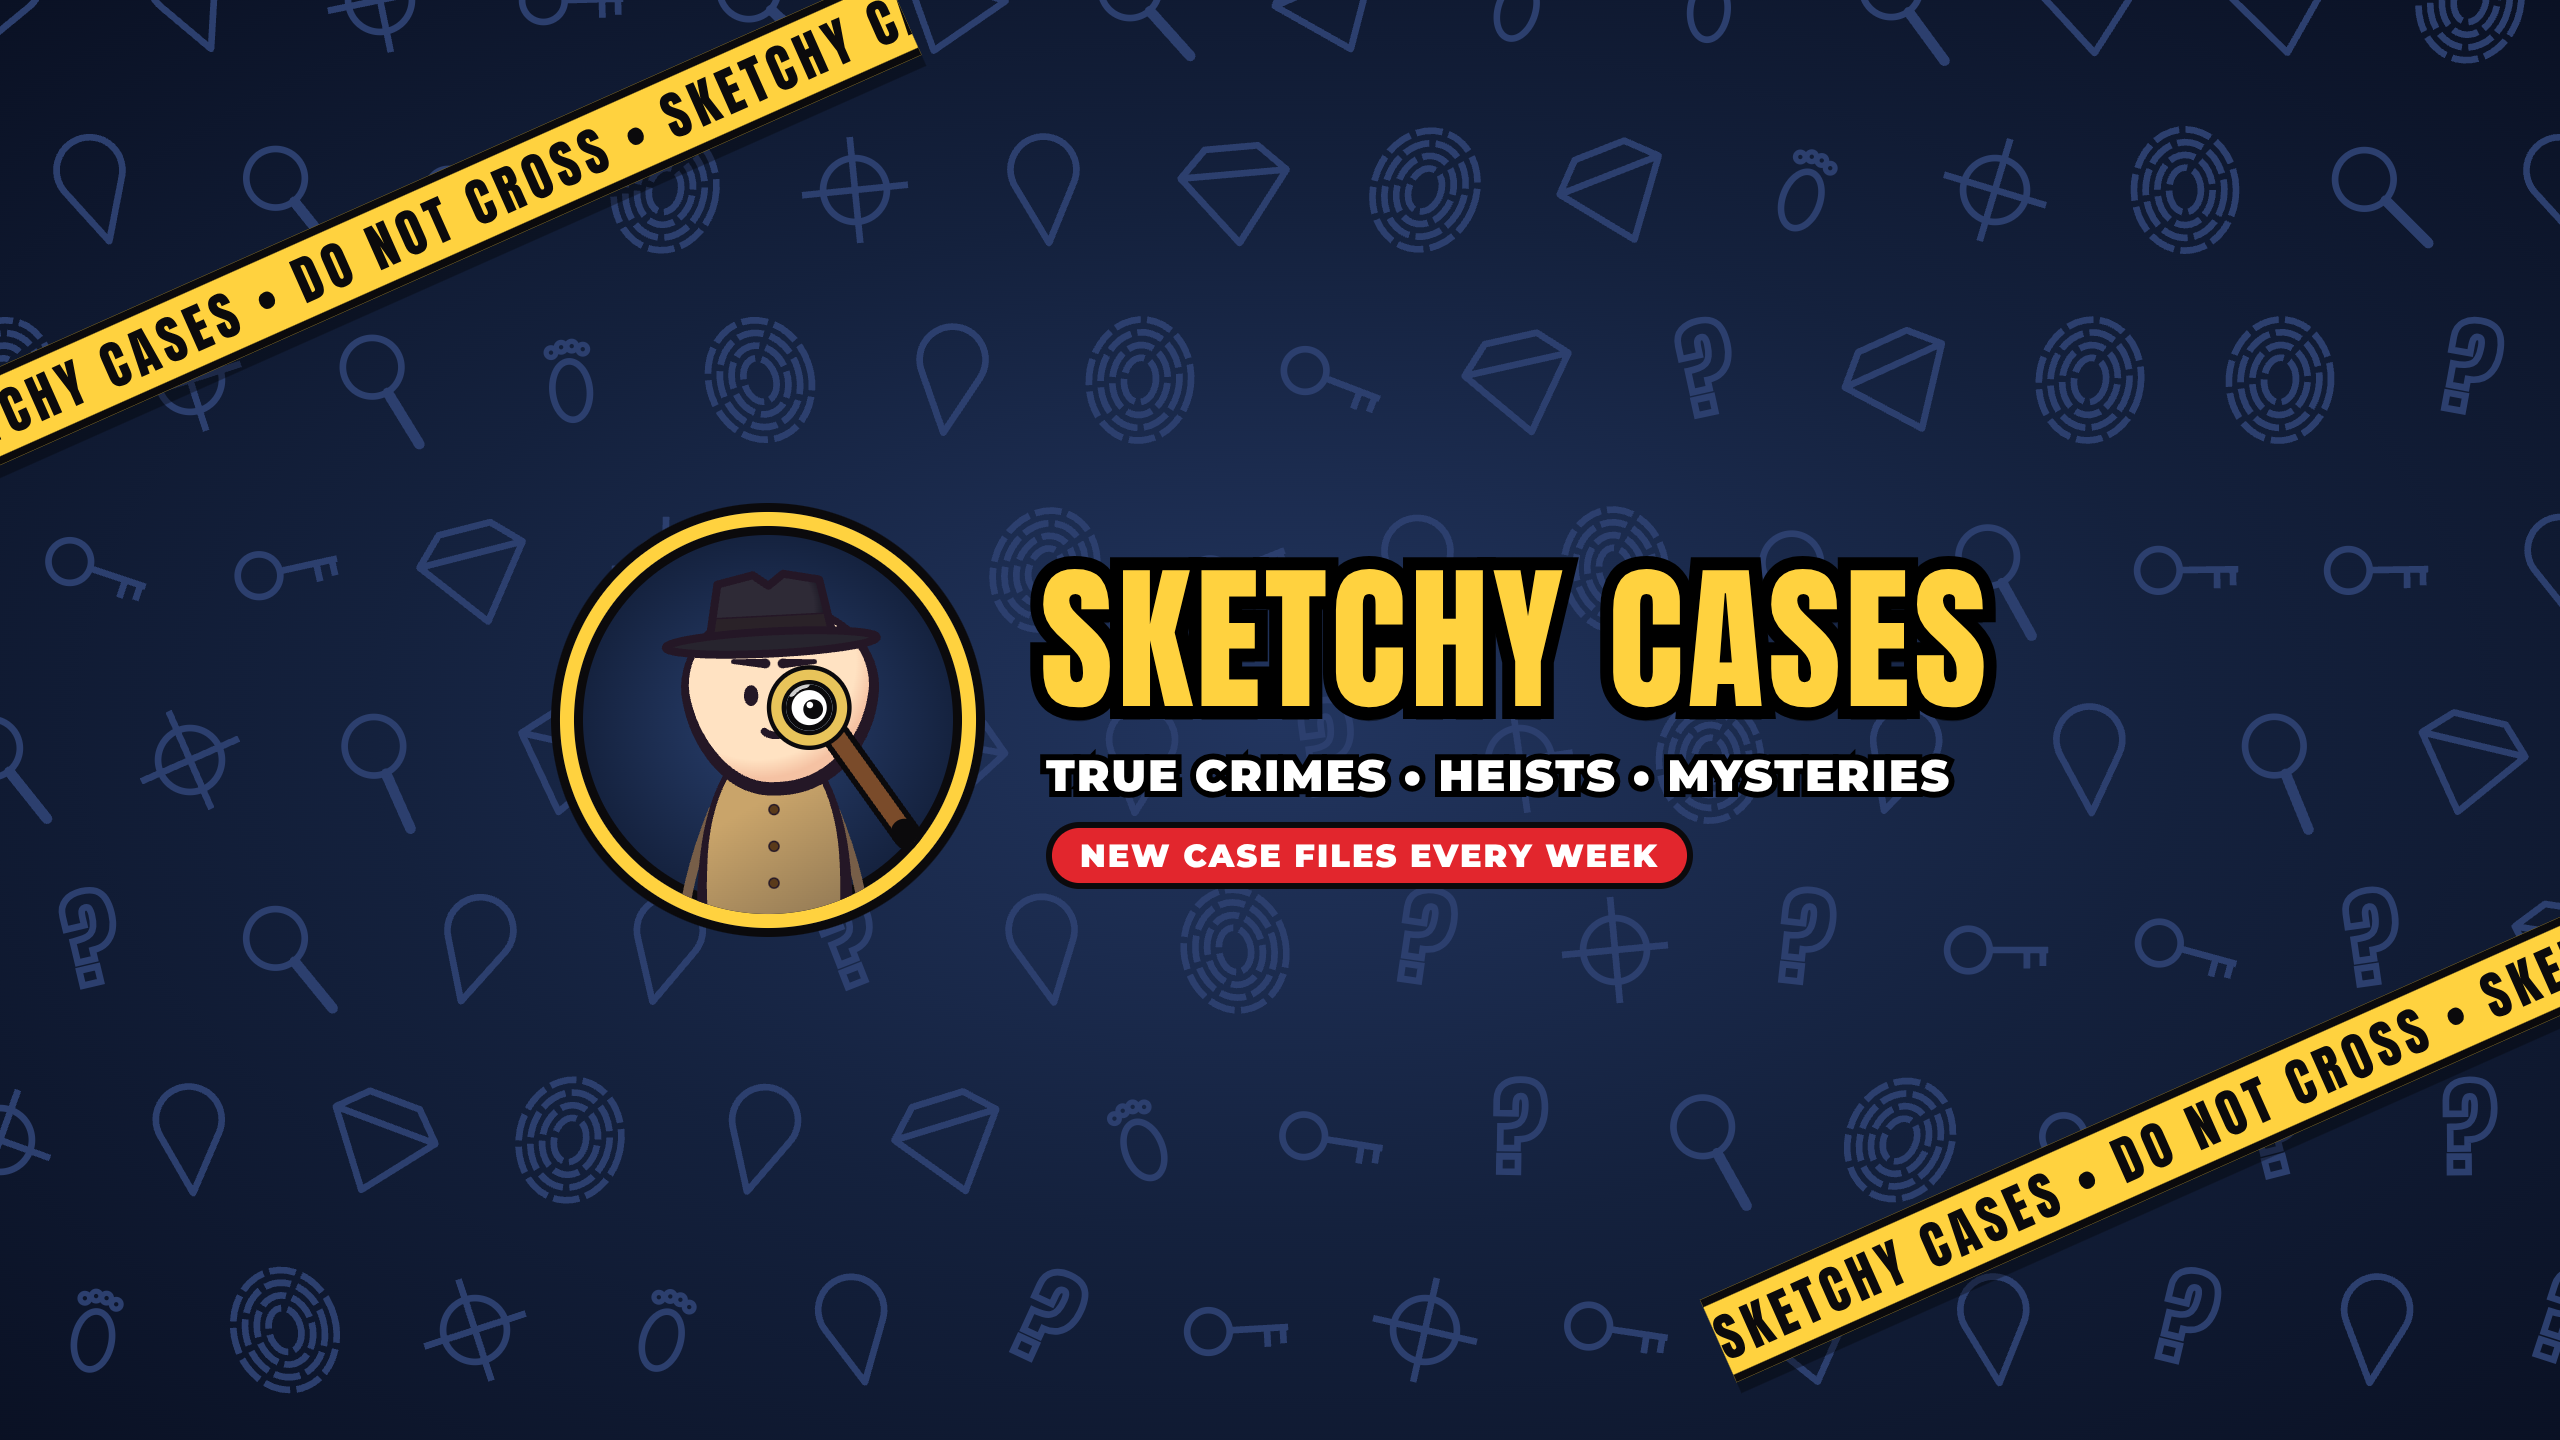
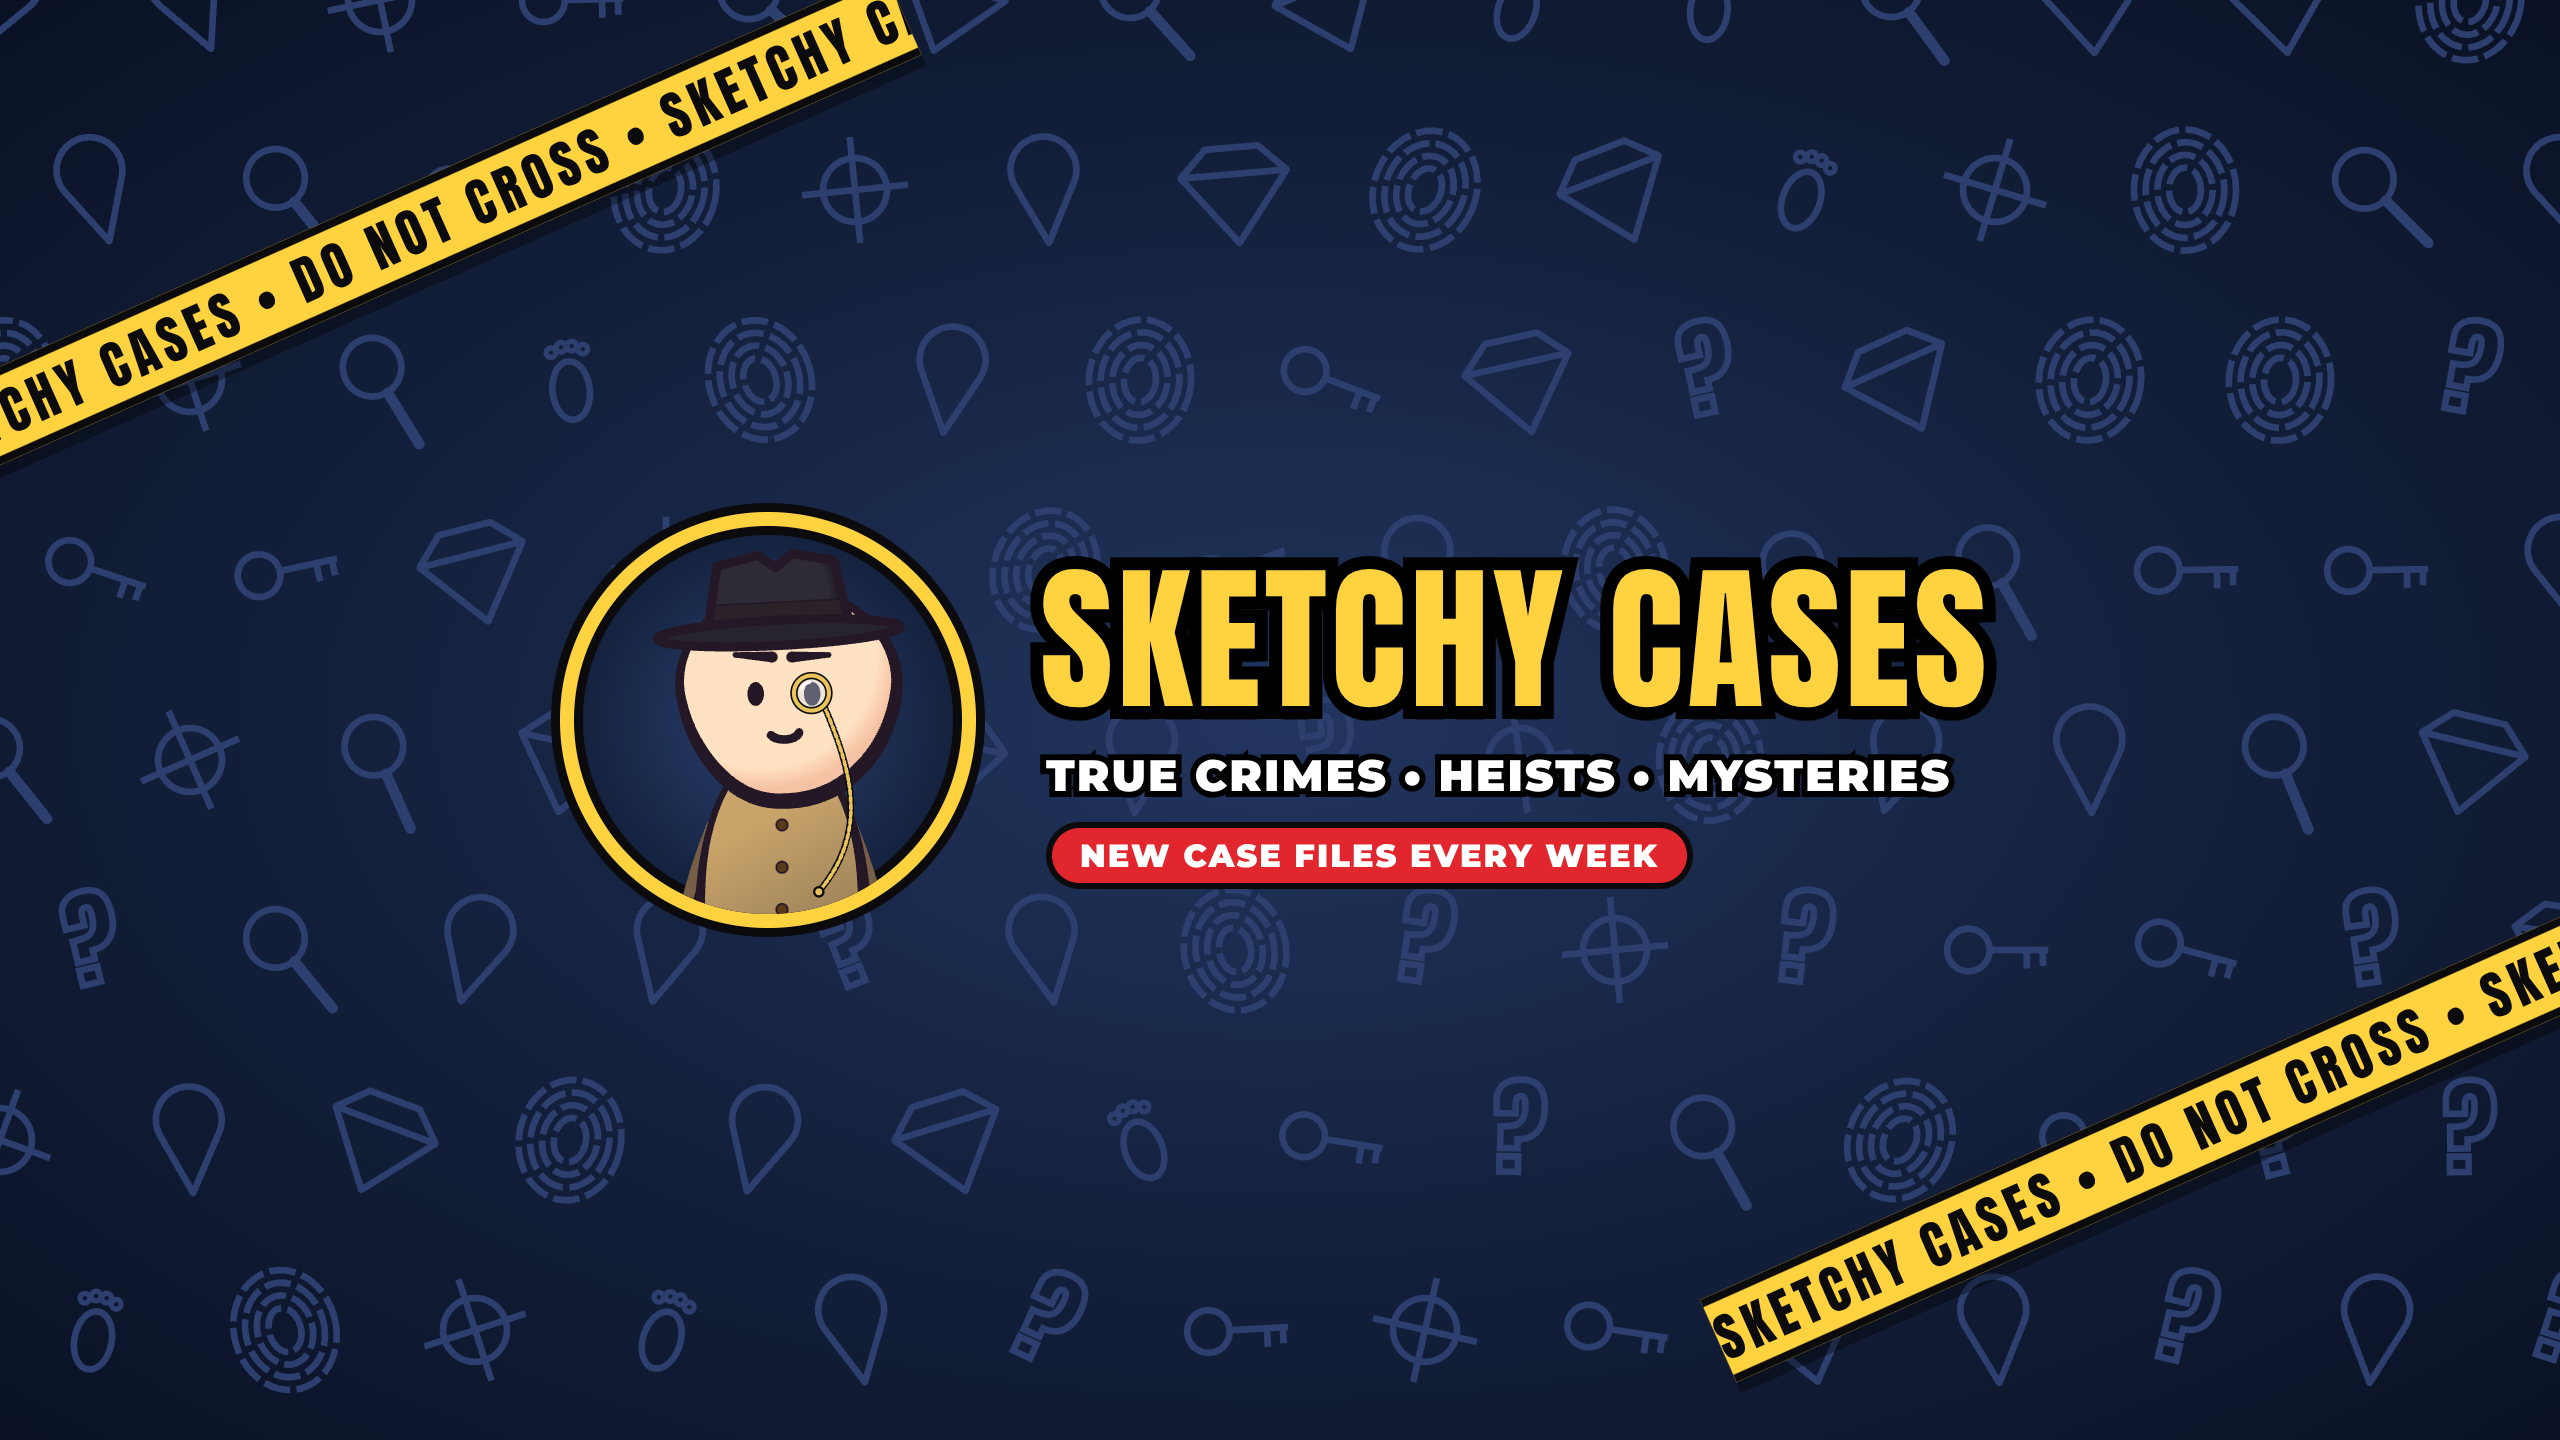
Branding: swap the magnifier for a gold monocle with chain
Claude-Session: https://claude.ai/code/session_01WPBraf5LDMQd2AFrQWE6gT

Changed region(s): [[0.25, 0.375, 0.375, 0.625], [0.25, 0.5625, 0.2812, 0.5938]]

diff --git a/video/src/brand/Brand.tsx b/video/src/brand/Brand.tsx
@@ -10,26 +10,24 @@ const NAVY = "#14213d", NAVY_D = "#0a1124", YELLOW = "#ffd23f", RED = "#e2262d",
 /** Mascot: a bean-head detective in a fedora and trench coat. */
 export const DETECTIVE: Outfit = { jacket: "#c9a46a", pants: "#3b3f52", boots: "#3a2a22", hat: "fedora", cap: "#2e2a36", skin: "#ffe2c2", buttons: "#5a3a1a" };
 
-/** Mascot bust with a magnifying glass over his right eye. (cx, cy) = head centre, s = scale (1 = 236 px head). */
+/** Mascot bust wearing a gold monocle with a chain. (cx, cy) = head centre, s = scale (1 = 236 px head). */
 const Mascot: React.FC<{ cx: number; cy: number; s: number }> = ({ cx, cy, s }) => {
-  const h = 1000 * s, x = cx, y = cy + (975 - 309) * s;
-  const ex = cx + 44 * s, ey = cy - 8 * s, R = 41 * s;
-  const hx = ex + R * 3.0, hy = ey + R * 3.9;
+  const HC = 286; // head centre of seed 7 in the 1000-unit design canvas
+  const h = 1000 * s, x = cx, y = cy + (975 - HC) * s;
+  const ex = cx + 32 * s, ey = cy - 1 * s, R = 19 * s;
+  const c0x = ex + R * 0.72, c0y = ey + R * 0.72;
+  const chain = `M ${c0x} ${c0y} C ${c0x + 30 * s} ${c0y + 70 * s}, ${cx + 95 * s} ${cy + 150 * s}, ${cx + 40 * s} ${cy + 215 * s}`;
   return (
     <>
       <Toon outfit={DETECTIVE} x={x} y={y} h={h} shadow={0} opts={{ mode: "stand", expr: "smile", seed: 7, facing: 0, look: 0.3 }} />
       <svg style={{ position: "absolute", left: 0, top: 0, overflow: "visible" }} width={1} height={1}>
-        <line x1={ex + R * 0.7} y1={ey + R * 0.7} x2={hx} y2={hy} stroke={INK} strokeWidth={36 * s} strokeLinecap="round" />
-        <line x1={ex + R * 0.7} y1={ey + R * 0.7} x2={hx} y2={hy} stroke="#7a4b2a" strokeWidth={22 * s} strokeLinecap="round" />
-        <circle cx={hx - 4 * s} cy={hy - 4 * s} r={17 * s} fill={INK} />
-        <circle cx={ex} cy={ey} r={R} fill="#cfe6ff" />
-        <circle cx={ex} cy={ey} r={R * 0.62} fill="#fff" stroke={INK} strokeWidth={7 * s} />
-        <circle cx={ex + R * 0.12} cy={ey + R * 0.05} r={R * 0.3} fill={INK} />
-        <circle cx={ex + R * 0.02} cy={ey - R * 0.08} r={R * 0.1} fill="#fff" />
-        <path d={`M ${ex - R * 0.62} ${ey - R * 0.74} Q ${ex} ${ey - R * 1.0} ${ex + R * 0.62} ${ey - R * 0.74}`} fill="none" stroke={INK} strokeWidth={9 * s} strokeLinecap="round" />
-        <path d={`M ${ex - R * 0.55} ${ey - R * 0.45} A ${R * 0.75} ${R * 0.75} 0 0 1 ${ex - R * 0.1} ${ey - R * 0.72}`} fill="none" stroke="#fff" strokeWidth={10 * s} strokeLinecap="round" opacity={0.8} />
-        <circle cx={ex} cy={ey} r={R} fill="none" stroke={INK} strokeWidth={24 * s} />
-        <circle cx={ex} cy={ey} r={R} fill="none" stroke="#e8c45a" strokeWidth={13 * s} />
+        <path d={chain} fill="none" stroke={INK} strokeWidth={7 * s} strokeLinecap="round" />
+        <path d={chain} fill="none" stroke="#e8c45a" strokeWidth={4 * s} strokeLinecap="round" strokeDasharray={`${5 * s} ${3 * s}`} />
+        <circle cx={cx + 40 * s} cy={cy + 215 * s} r={5 * s} fill="#e8c45a" stroke={INK} strokeWidth={2.5 * s} />
+        <circle cx={ex} cy={ey} r={R} fill="#cfe6ff" opacity={0.35} />
+        <path d={`M ${ex - R * 0.6} ${ey - R * 0.25} A ${R * 0.65} ${R * 0.65} 0 0 1 ${ex - R * 0.1} ${ey - R * 0.62}`} fill="none" stroke="#fff" strokeWidth={3.5 * s} strokeLinecap="round" opacity={0.9} />
+        <circle cx={ex} cy={ey} r={R} fill="none" stroke={INK} strokeWidth={8 * s} />
+        <circle cx={ex} cy={ey} r={R} fill="none" stroke="#e8c45a" strokeWidth={4.5 * s} />
       </svg>
     </>
   );
@@ -74,7 +72,7 @@ export const Avatar: React.FC = () => (
     <Doodles w={800} h={800} cell={150} seed={11} />
     <div style={{ position: "absolute", left: 40, top: 40, width: 720, height: 720, borderRadius: "50%", border: `16px solid ${YELLOW}`, boxShadow: `0 0 0 10px ${INK} inset, 0 0 0 10px ${INK}` }} />
     <AbsoluteFill style={{ clipPath: "circle(352px at 400px 400px)" }}>
-      <Mascot cx={380} cy={390} s={1.55} />
+      <Mascot cx={390} cy={360} s={1.75} />
     </AbsoluteFill>
   </AbsoluteFill>
 );
@@ -88,7 +86,7 @@ export const Banner: React.FC = () => (
     <div style={{ position: "absolute", left: 560, top: 512, width: 416, height: 416, borderRadius: "50%", background: `radial-gradient(circle, #2a4170 0%, ${NAVY} 70%)`,
       border: `14px solid ${YELLOW}`, boxShadow: `0 0 0 9px ${INK} inset, 0 0 0 9px ${INK}`, overflow: "hidden" }}>
       <div style={{ position: "absolute", left: -560, top: -512, width: 2560, height: 1440 }}>
-        <Mascot cx={760} cy={700} s={0.8} />
+        <Mascot cx={768} cy={680} s={0.92} />
       </div>
     </div>
     <div style={{ position: "absolute", left: 1040, top: 560, fontFamily: "Anton", fontSize: 158, lineHeight: 1, color: YELLOW, letterSpacing: 4,
